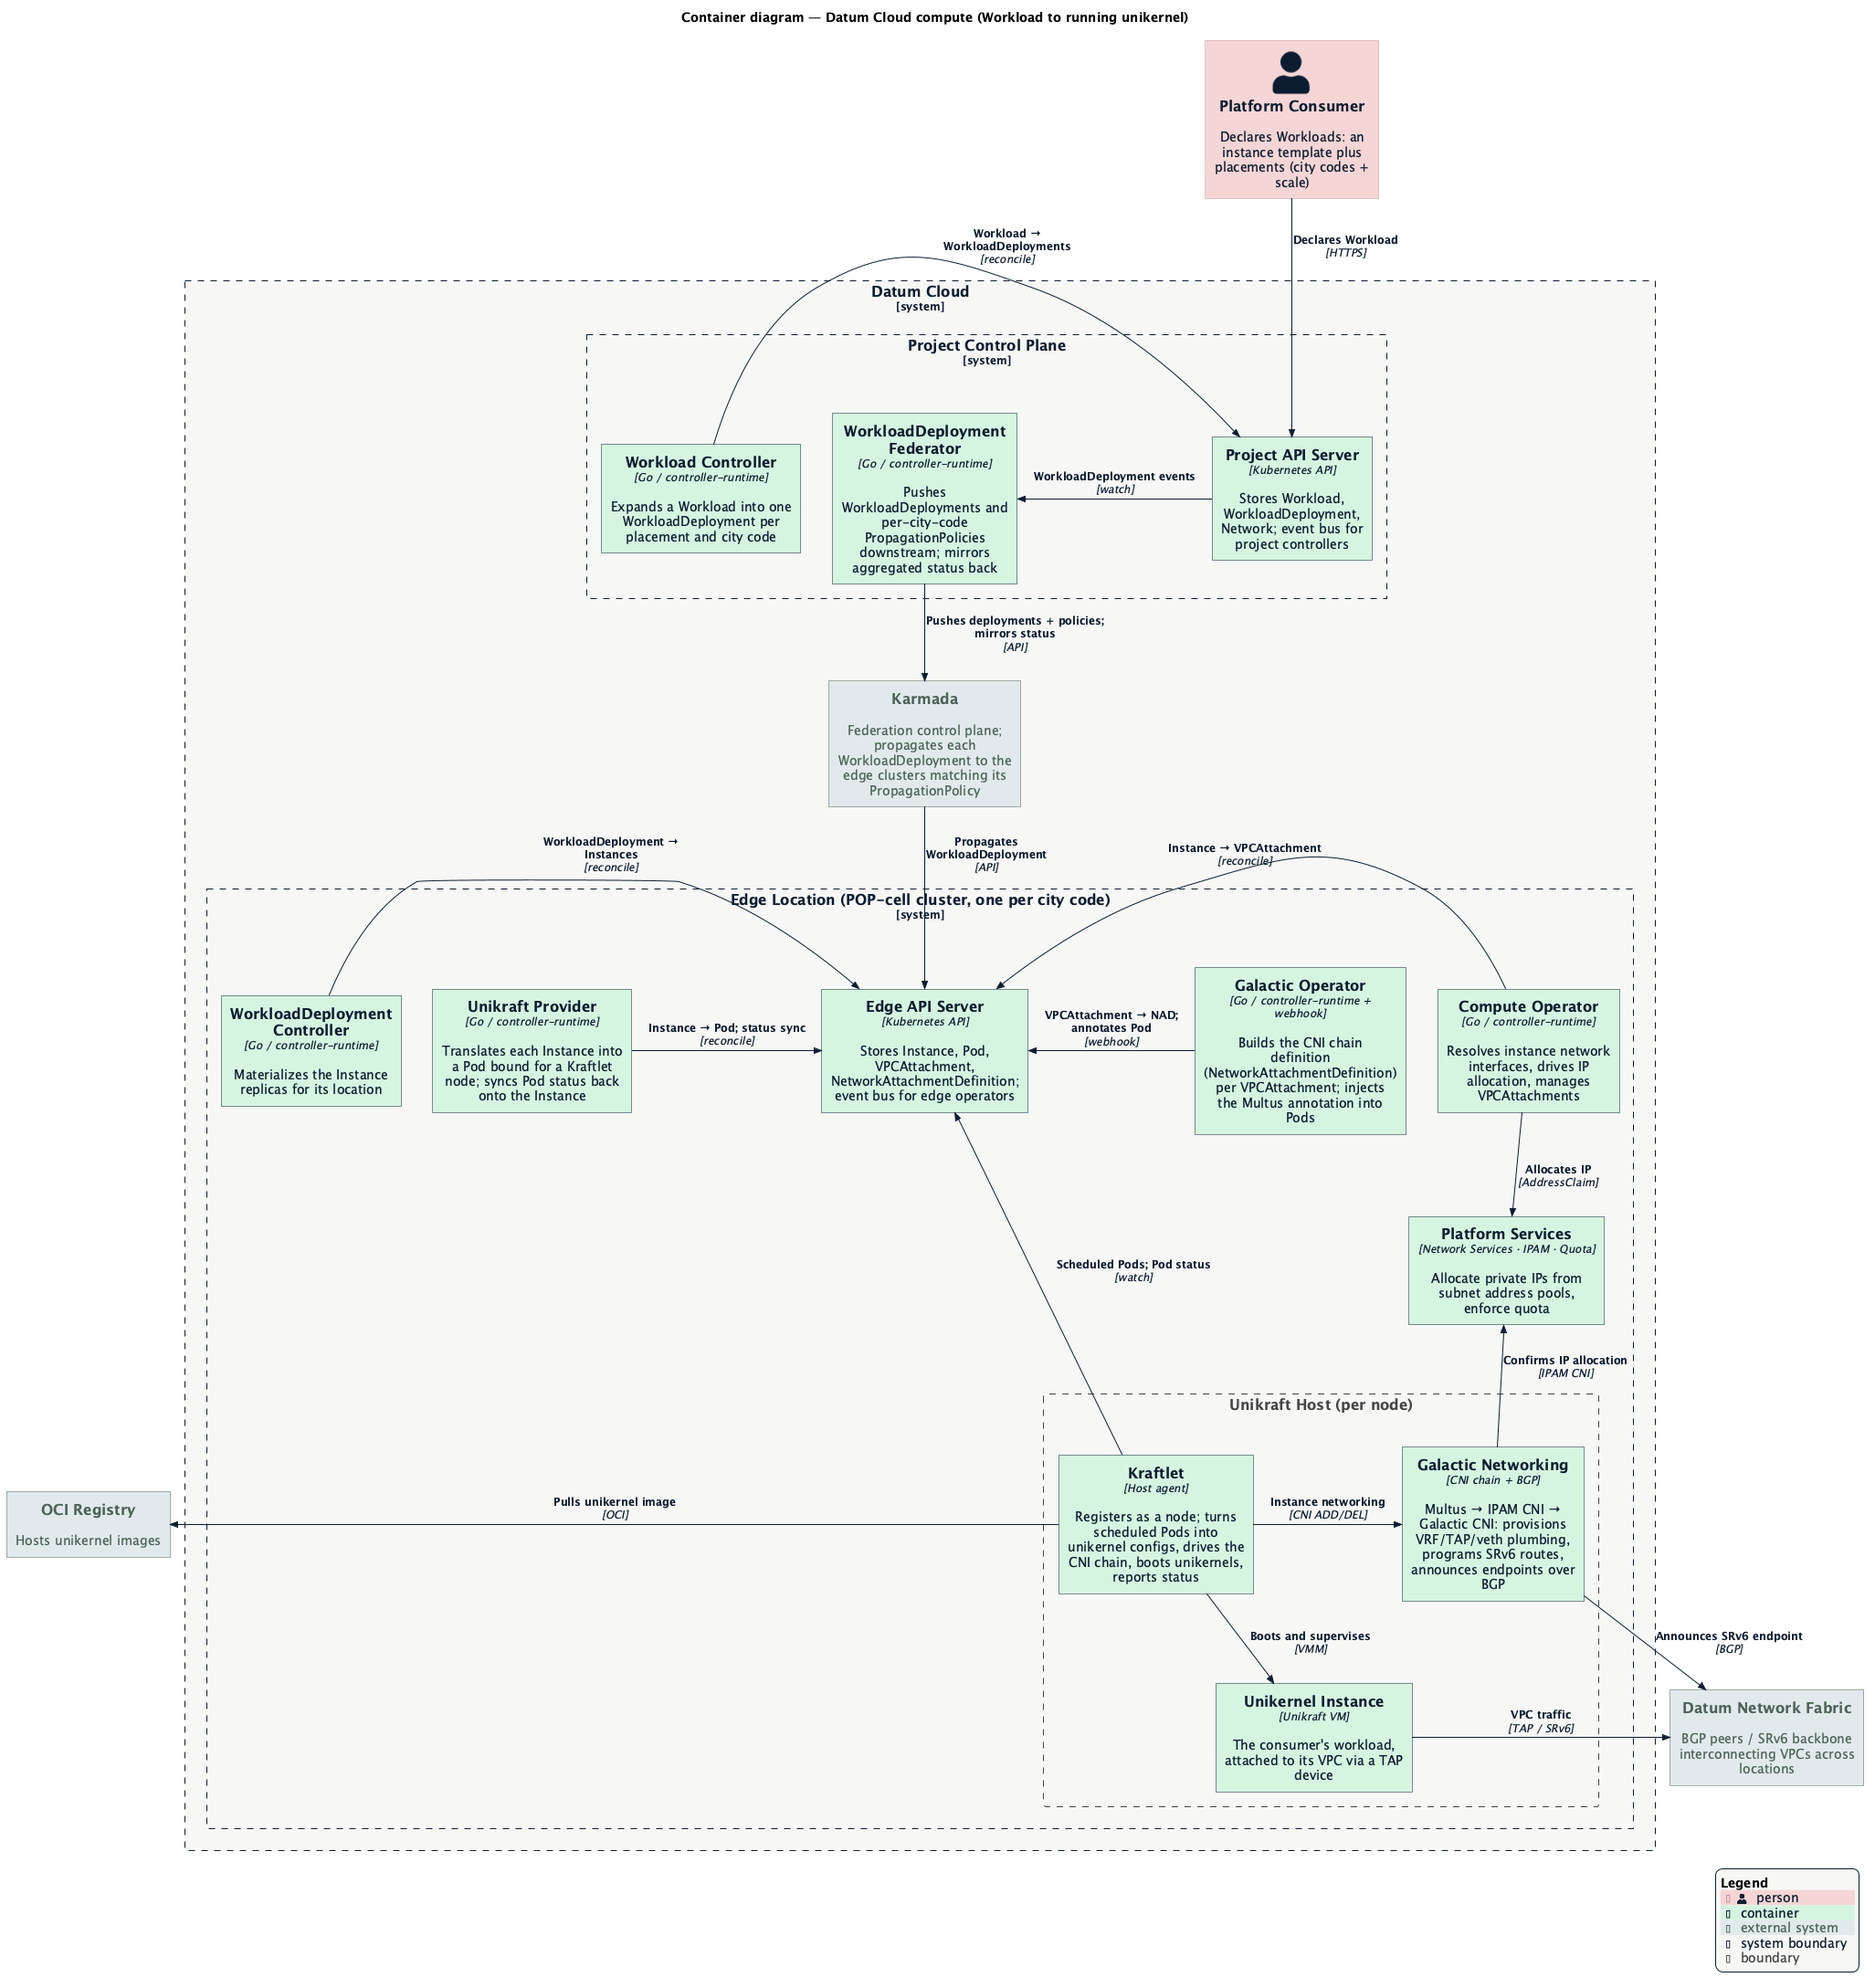
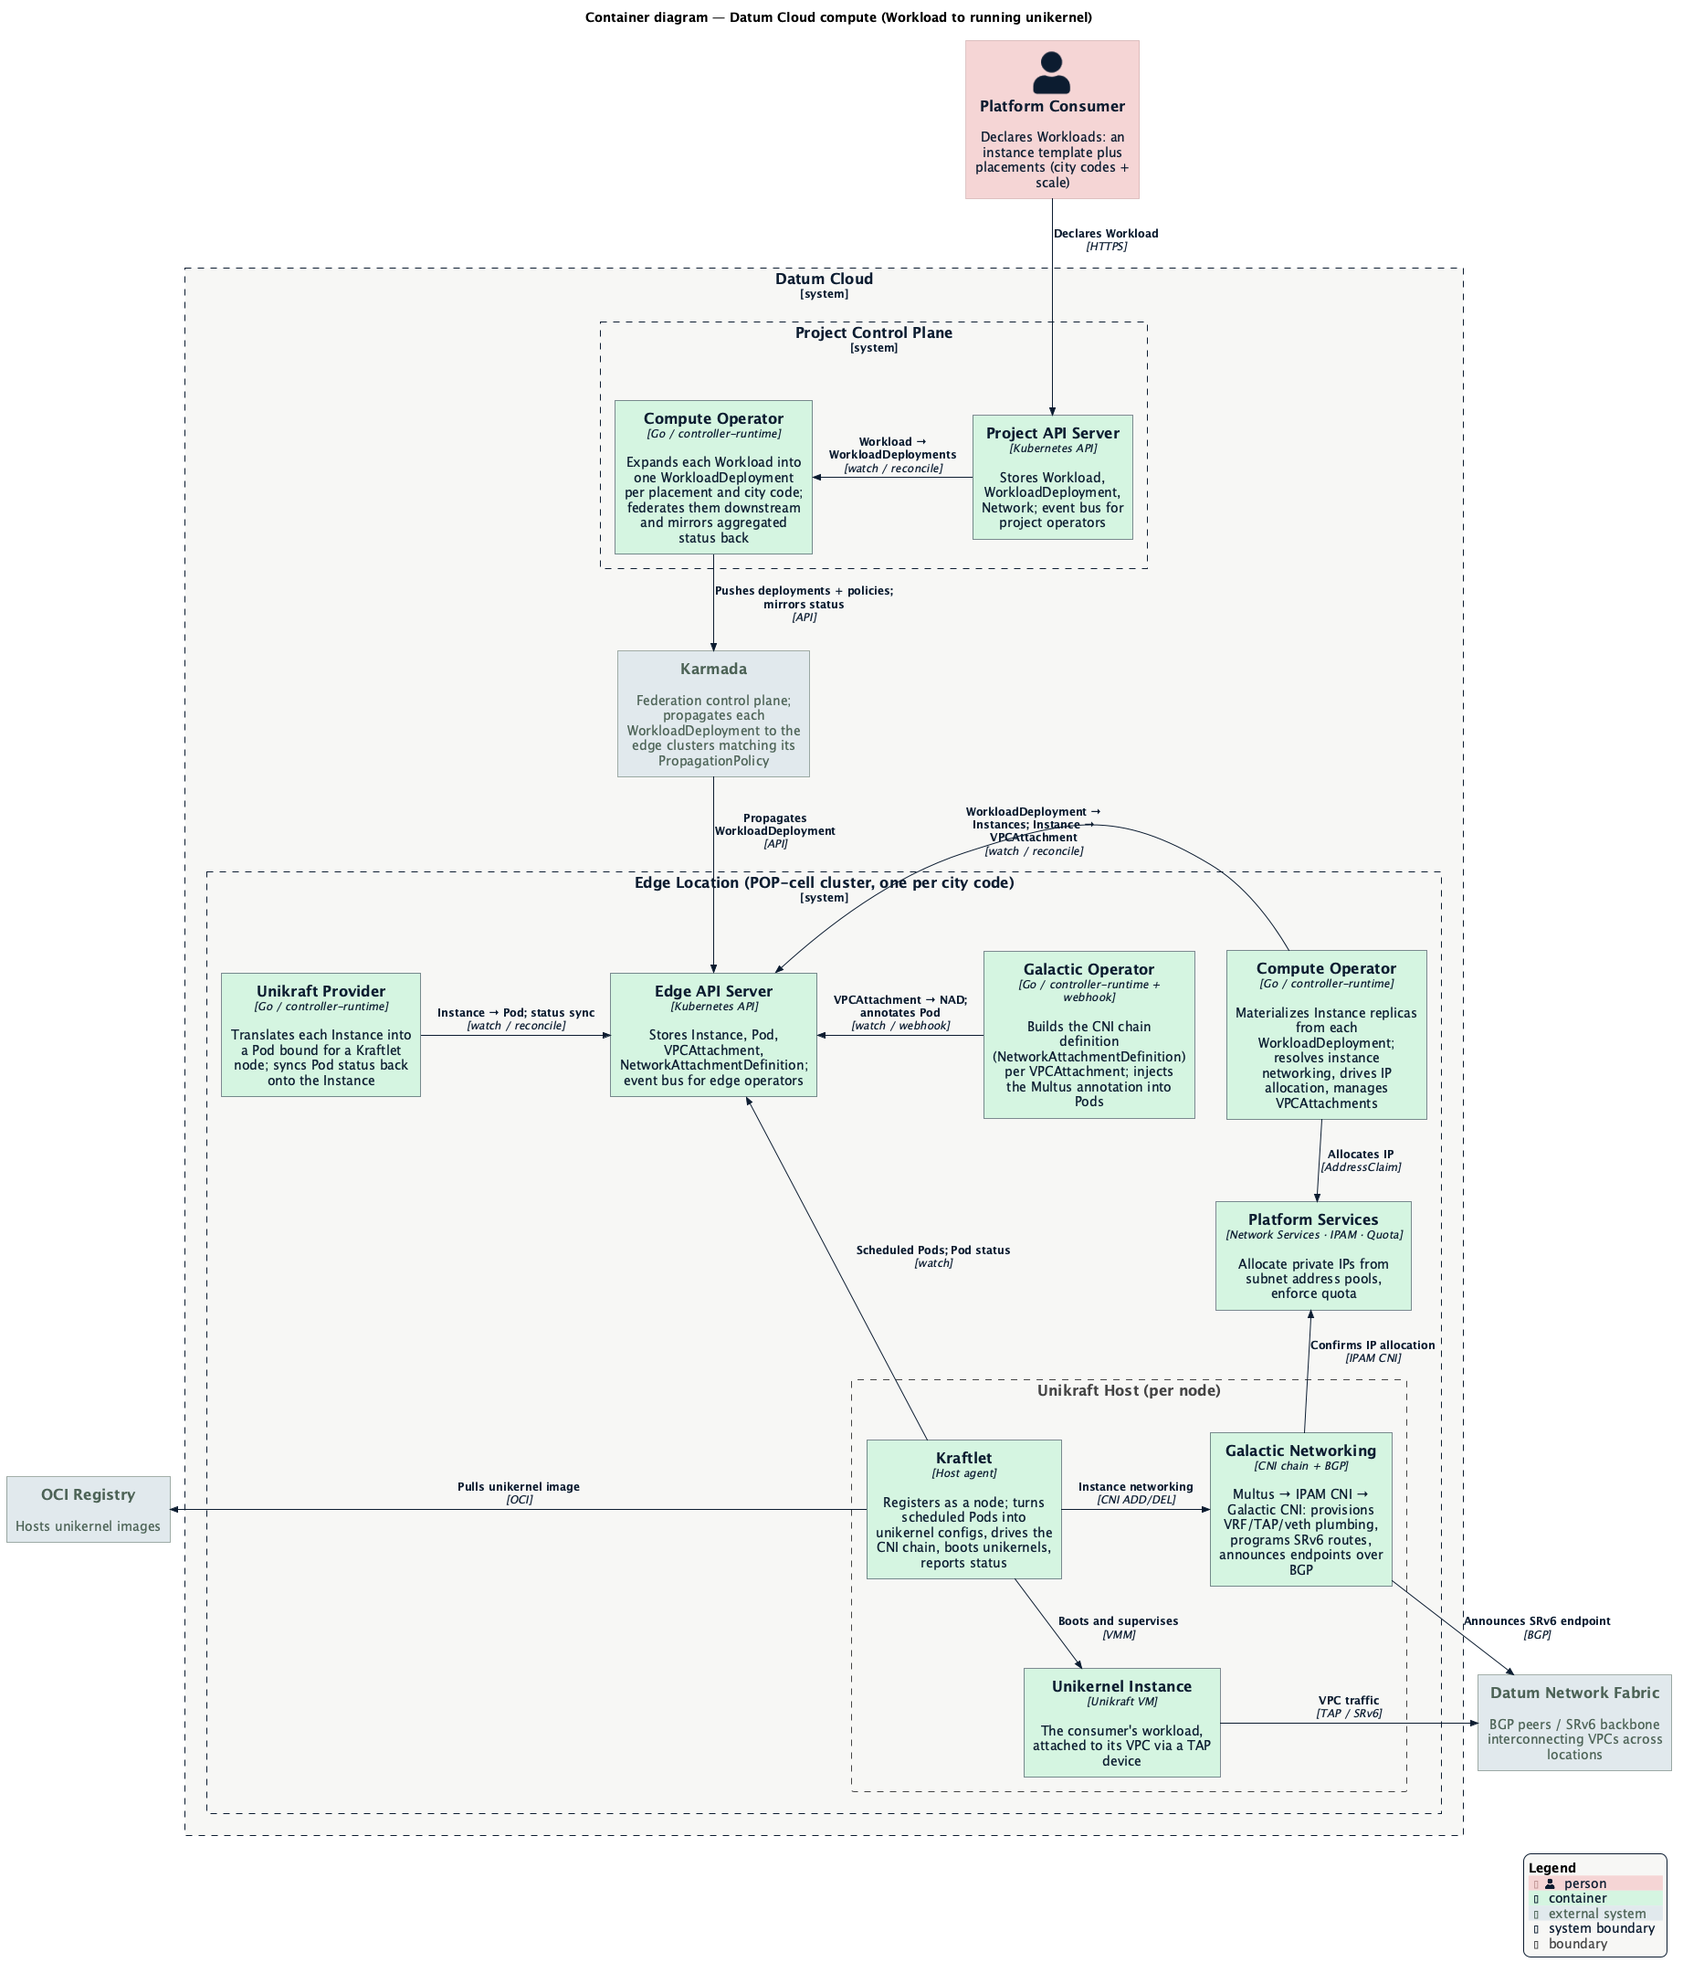
docs: keep the container diagram at C4 level 2
Collapses operator-internal controllers (Workload controller,
WorkloadDeployment federator/controller) into their deployable unit — the
Compute Operator, which runs in both the project control plane and each
edge location. Adds a reading-guide note mapping sequence-diagram lifelines
(controllers) to C4 level 3 components within these containers.

diff --git a/docs/enhancements/instance-provisioning.md b/docs/enhancements/instance-provisioning.md
@@ -48,6 +48,13 @@ How to read it:
 - **Platform Services** aggregates the shared services the compute path leans
   on (network services, IPAM, quota) — they are independent deployments, but
   their internals are not part of this system's story.
+- **Boxes are deployables, not controllers.** Each container is a separately
+  deployed unit. The individual reconcilers inside an operator binary — e.g.
+  the Workload and WorkloadDeployment controllers within the Compute Operator
+  — are component-level (C4 level 3) detail; the sequence diagrams below name
+  them as lifelines when tracing behavior. The Compute Operator appears in
+  both control planes: the same operator deployed with different
+  responsibilities per plane.
 
 The diagram source is
 [`instance-provisioning-containers.puml`](./instance-provisioning-containers.puml)
